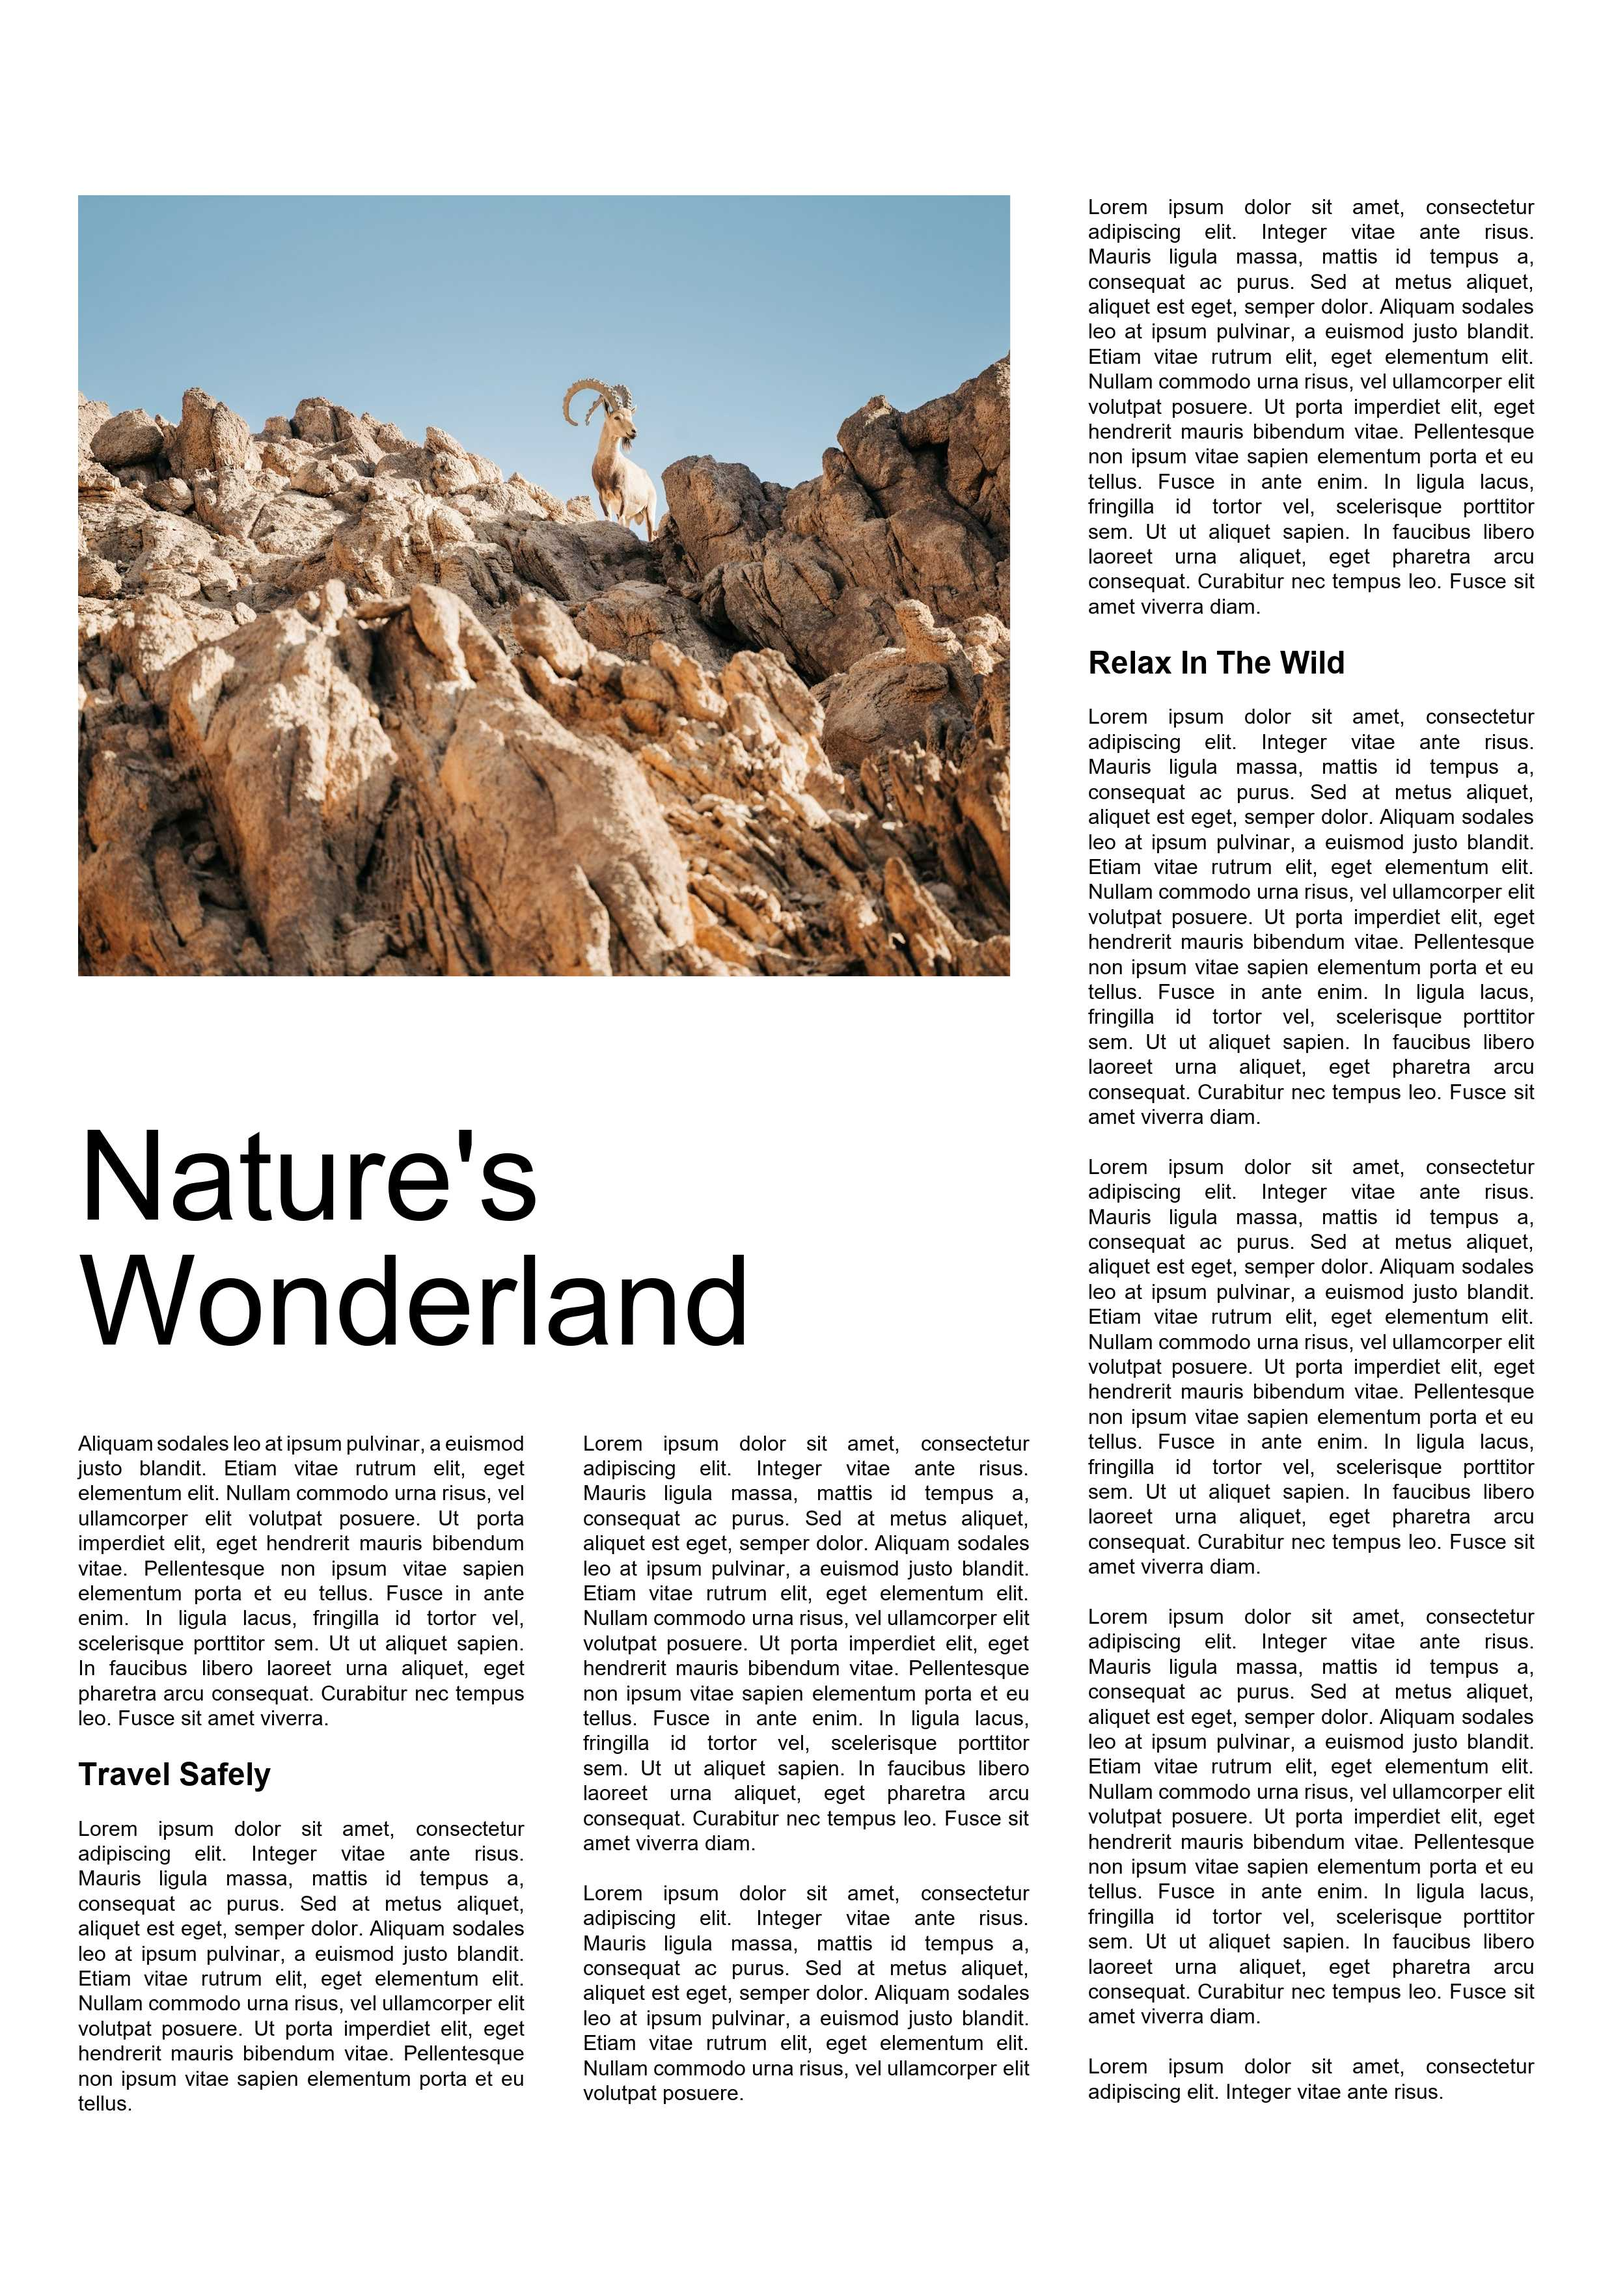
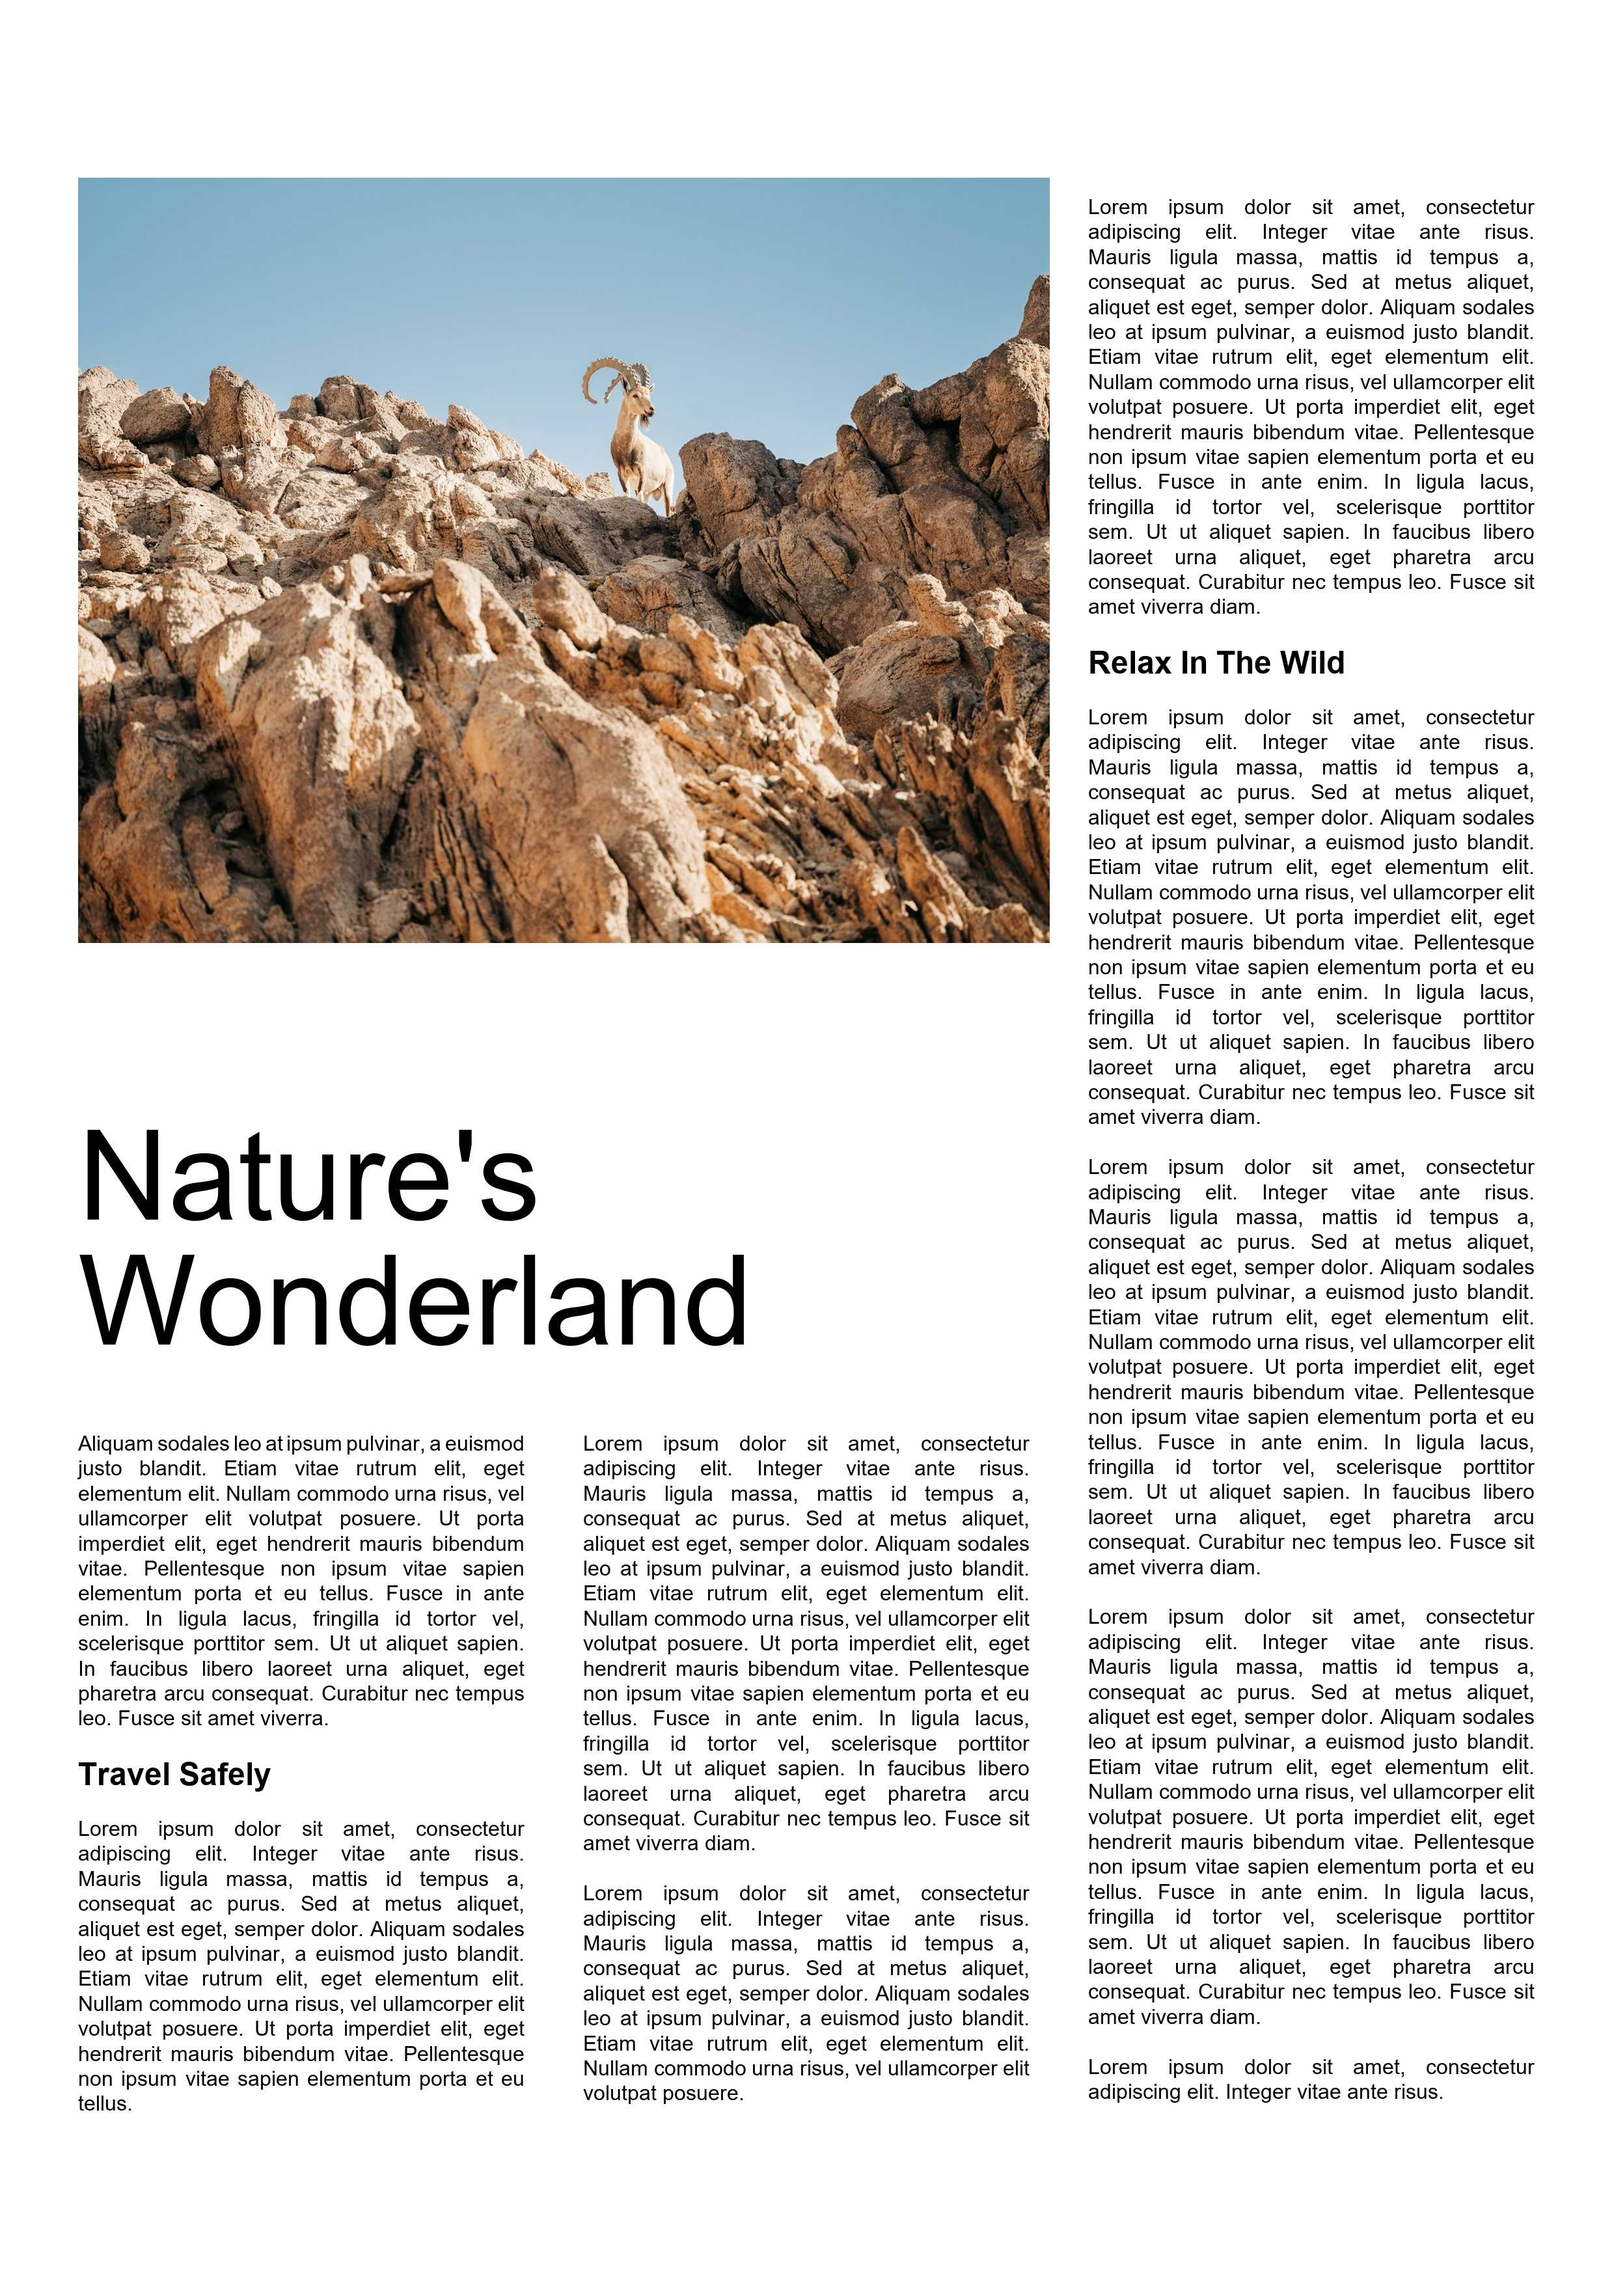
'

diff --git a/admin/magazine-python/main.py b/admin/magazine-python/main.py
@@ -41,60 +41,46 @@ def img_resize(image_path_in, image_path_out, w, h, quality=100):
 
     return output_path
 
-
-
-# for image_filename in os.listdir('in'):
-#     print(image_filename)
-#     image_path_in = 'in/' + image_filename
-#     image_path_out = 'out/' + image_filename.replace('.png', '.jpg')
-    
-#     img_resize(image_path_in, image_path_out, w, h 70)
-
-
-
-
-
-
-
-
+#####################################################################
+# ;MAIN
+#####################################################################
 a4_w, a4_h = 2480, 3508
-
-a4_mx = a4_w//100*5
-
-column_num = 3
-column_w = (a4_w - a4_mx*2)//column_num
-column_gap = a4_mx*0.5
-line_num = column_num-1
 
 img = Image.new("RGB", (a4_w, a4_h), "white")
 draw = ImageDraw.Draw(img)
 
-# DRAW MARGINS
-# draw.line((a4_mx, 0, a4_mx, a4_h), fill=128)
-# draw.line((a4_w - a4_mx, 0, a4_w - a4_mx, a4_h), fill=128)
 
-# DRAW COLUMNS
-# for i in range(line_num):
-#     draw.line((column_w*(i+1) + a4_mx - column_gap, 0, column_w*(i+1) + a4_mx  - column_gap, a4_h), fill='#a21caf')
-#     draw.line((column_w*(i+1) + a4_mx, 0, column_w*(i+1) + a4_mx, a4_h), fill=128)
-#     draw.line((column_w*(i+1) + a4_mx + column_gap, 0, column_w*(i+1) + a4_mx  + column_gap, a4_h), fill='#a21caf')
+
+a4_mx = a4_w//100*5
+a4_my = a4_h//100*5
+
+
+column_num = 3
+column_w = (a4_w - a4_mx*2)//column_num
+column_gap = a4_mx*0.5
+
+row_num = 32
+row_h = (a4_h - a4_my*2)//row_num
+row_gap = a4_my*0.5
+
+
+
+def get_coord(cs, rs, ce, re):
+    x = a4_mx + column_w*cs
+    y = a4_my + row_h*rs
+    w = column_w*(ce-cs+1)
+    h = row_h*(re-rs+1)
+    return x, y, w, h
+
 
 # DRAW IMAGE
-image_span = 2
-image_w = a4_mx + (column_w * image_span)
-draw.rectangle(((a4_mx, 300), (image_w - column_gap, 1500)), fill="#e5e5e5")
-
-
-img_resize(
-    'image.jpg', 'image-resized.jpg', 
-    (image_w - column_gap - a4_mx), 
-    (1500 - 300), 90)
-
 img_featured = Image.open('image-resized.jpg')
-img.paste(img_featured, (a4_mx, 300))
+x, y, w, h = get_coord(0, 1, 1, 12)
+img_resize('image.jpg', 'image-resized.jpg', w, h, 90)
+img.paste(img_featured, (x, y))
 
-# img.show()
-# quit()
+
+
 
 # DRAW TITLE
 title = '''
@@ -111,43 +97,6 @@ font = ImageFont.truetype("arial.ttf", font_size)
 for i, line in enumerate(title_lines):
     draw.text((a4_mx, 1500 + 200 + font_size*1.0*i), line, font=font, fill="black")
 
-
-
-
-
-
-# drap paragraphs
-# y = 2200
-# for i in range(len(paragraphs)):
-#     font_size = 32
-#     font = ImageFont.truetype("arial.ttf", font_size)
-#     paragraph_index = i
-#     if not paragraphs[paragraph_index]:
-#         y += font_size*1.2*2
-#         pass
-#     else:
-#         lines_num = len(paragraphs[paragraph_index])
-
-#         if lines_num == 1:
-#             subtitle = paragraphs[paragraph_index][0]
-#             if subtitle.startswith('## '):
-#                 subtitle = subtitle.replace('## ', '').strip()
-#                 # font_size = 32
-#                 # font = ImageFont.truetype("arial.ttf", font_size)
-#                 draw.text((a4_mx, y), subtitle, font=font, fill="black")
-            
-#         else:
-#             for i, line in enumerate(paragraphs[paragraph_index]):
-#                 if i != lines_num - 1:
-#                     words = line.split(" ")
-#                     words_length = sum(draw.textlength(w, font=font) for w in words)
-#                     space_length = (text_width - words_length) / (len(words) - 1)
-#                     x = 0
-#                     for word in words:
-#                         draw.text((x + a4_mx, y), word, font=font, fill="black")
-#                         x += draw.textlength(word, font=font) + space_length
-#                 else:
-#                     draw.text((a4_mx, y), line, font=font, fill="black")
 
 def draw_text_column(filename, x_start, y_start):
     # DRAW COLUMN
@@ -196,30 +145,48 @@ def draw_text_column(filename, x_start, y_start):
                     else:
                         draw.text((x_start + a4_mx, y), line, font=font, fill="black")
 
+
 draw_text_column('col-1.md', column_w*0, 2200)
 draw_text_column('col-2.md', column_w*1+column_gap//2, 2200)
 draw_text_column('col-3.md', column_w*2+column_gap, 300)
 
-# y = 2200
-# for i in range(len(paragraphs)):
-#     paragraph_index = i
-#     if not paragraphs[paragraph_index]:
-#         y += font_size*1.2*2
-#     else:
-#         lines_num = len(paragraphs[paragraph_index])
-#         for i, line in enumerate(paragraphs[paragraph_index]):
-#             if i != lines_num - 1:
-#                 words = line.split(" ")
-#                 words_length = sum(draw.textlength(w, font=font) for w in words)
-#                 space_length = (text_width - words_length) / (len(words) - 1)
-#                 x = 0
-#                 for word in words:
-#                     draw.text((x + a4_mx, y), word, font=font, fill="black")
-#                     x += draw.textlength(word, font=font) + space_length
-#                 y += font_size*1.2
-#             else:
-#                 draw.text((a4_mx, y), line, font=font, fill="black")
 
 
-# img.show()
+
+
+def debug_margins():
+    draw.line((a4_mx, 0, a4_mx, a4_h), fill='#a21caf')
+    draw.line((a4_w - a4_mx, 0, a4_w - a4_mx, a4_h), fill='#a21caf')
+    draw.line((0, a4_my, a4_w, a4_my), fill='#a21caf')
+    draw.line((0, a4_h - a4_my, a4_w, a4_h - a4_my), fill='#a21caf')
+
+
+def debug_columns():
+    for i in range(column_num-1):
+        # draw.line((column_w*(i+1) + a4_mx - column_gap, 0, column_w*(i+1) + a4_mx  - column_gap, a4_h), fill='#a21caf')
+        draw.line((column_w*(i+1) + a4_mx, 0, column_w*(i+1) + a4_mx, a4_h), fill='#a21caf')
+        # draw.line((column_w*(i+1) + a4_mx + column_gap, 0, column_w*(i+1) + a4_mx  + column_gap, a4_h), fill='#a21caf')
+
+
+def debug_rows():
+    for i in range(row_num-1):
+        draw.line((0, row_h*(i+1) + a4_my, a4_w, row_h*(i+1) + a4_my), fill='#a21caf')
+
+
+def debug_cells():
+    font_size = 64
+    font = ImageFont.truetype("arialbd.ttf", font_size)
+    for i in range(column_num):
+        for k in range(row_num):
+            coord = f'({i}, {k})'
+            draw.text((a4_mx + column_w*i, a4_my + row_h*k), coord, font=font, fill='#a21c')
+
+
+# debug_margins()
+# debug_columns()
+# debug_rows()
+# debug_cells()
+
+
+img.show()
 img.save('template-magazine-1.jpg', quality=50)
